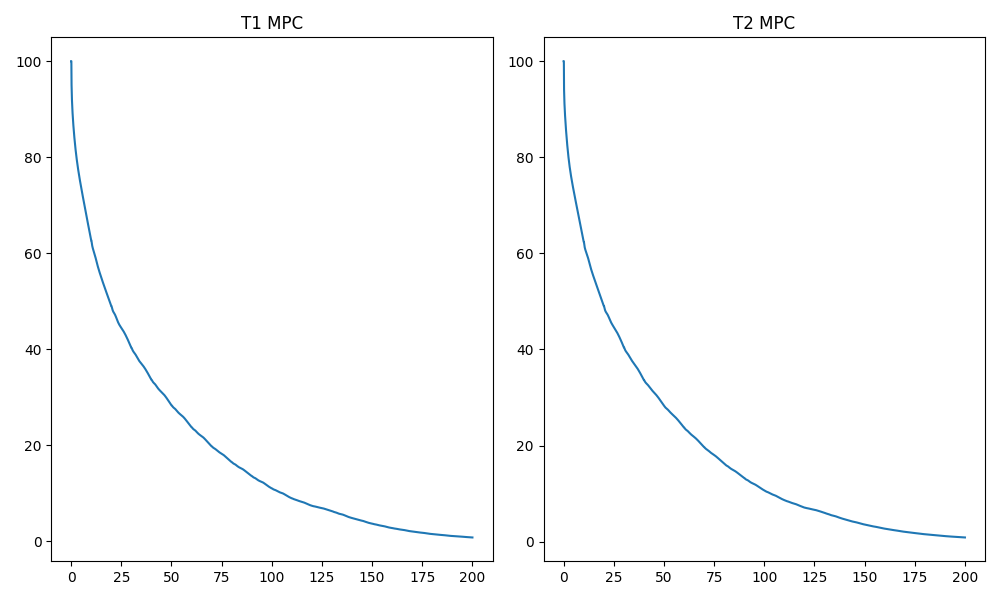
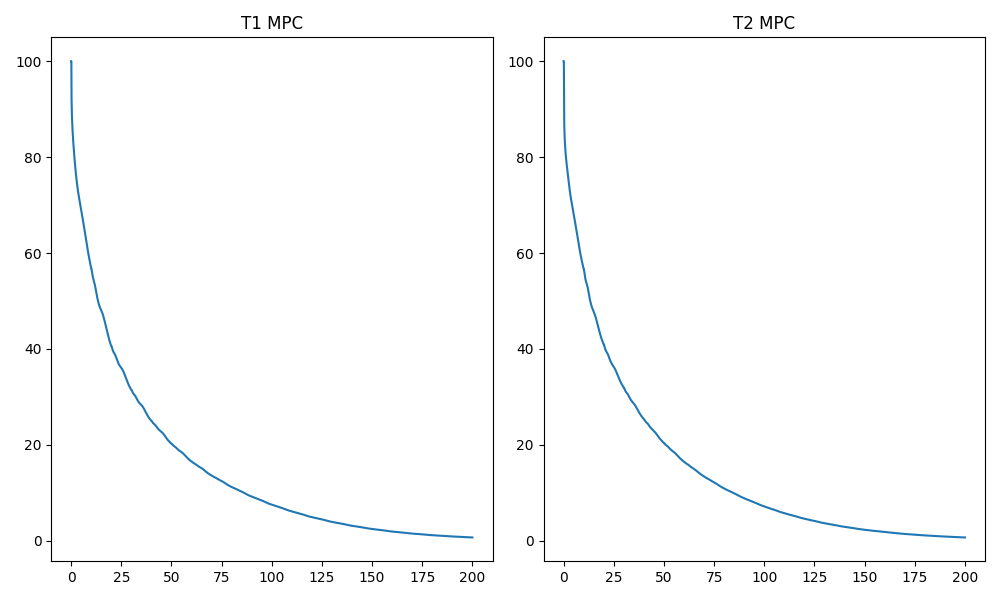
correction du problème d'échelle

diff --git a/model.py b/model.py
@@ -100,7 +100,6 @@ class Simulation:
                 else:
                     self.verif_f.append(1)
                     # print("min = s_fcn")
-            
             return (min(Gamma[self.X_index[i], k]*self.X[i].d_fcn(),self.X[j].s_fcn()))
 
     # Defines the flow of the last cell => equal to demand function

diff --git a/main.py b/main.py
@@ -71,7 +71,7 @@ nc = 6
 # Step time
 h = 0.1
 # Max speeds of the cells
-V = np.array([70, 70, 70, 70, 70, 70], dtype=float).reshape(nc,1)
+V = 1/3.6*np.array([70, 70, 70, 70, 70, 70], dtype=float).reshape(nc,1)
 # Slopes of supply function
 W = 20/3.6*np.eye(6)
 # Lengths of roads
